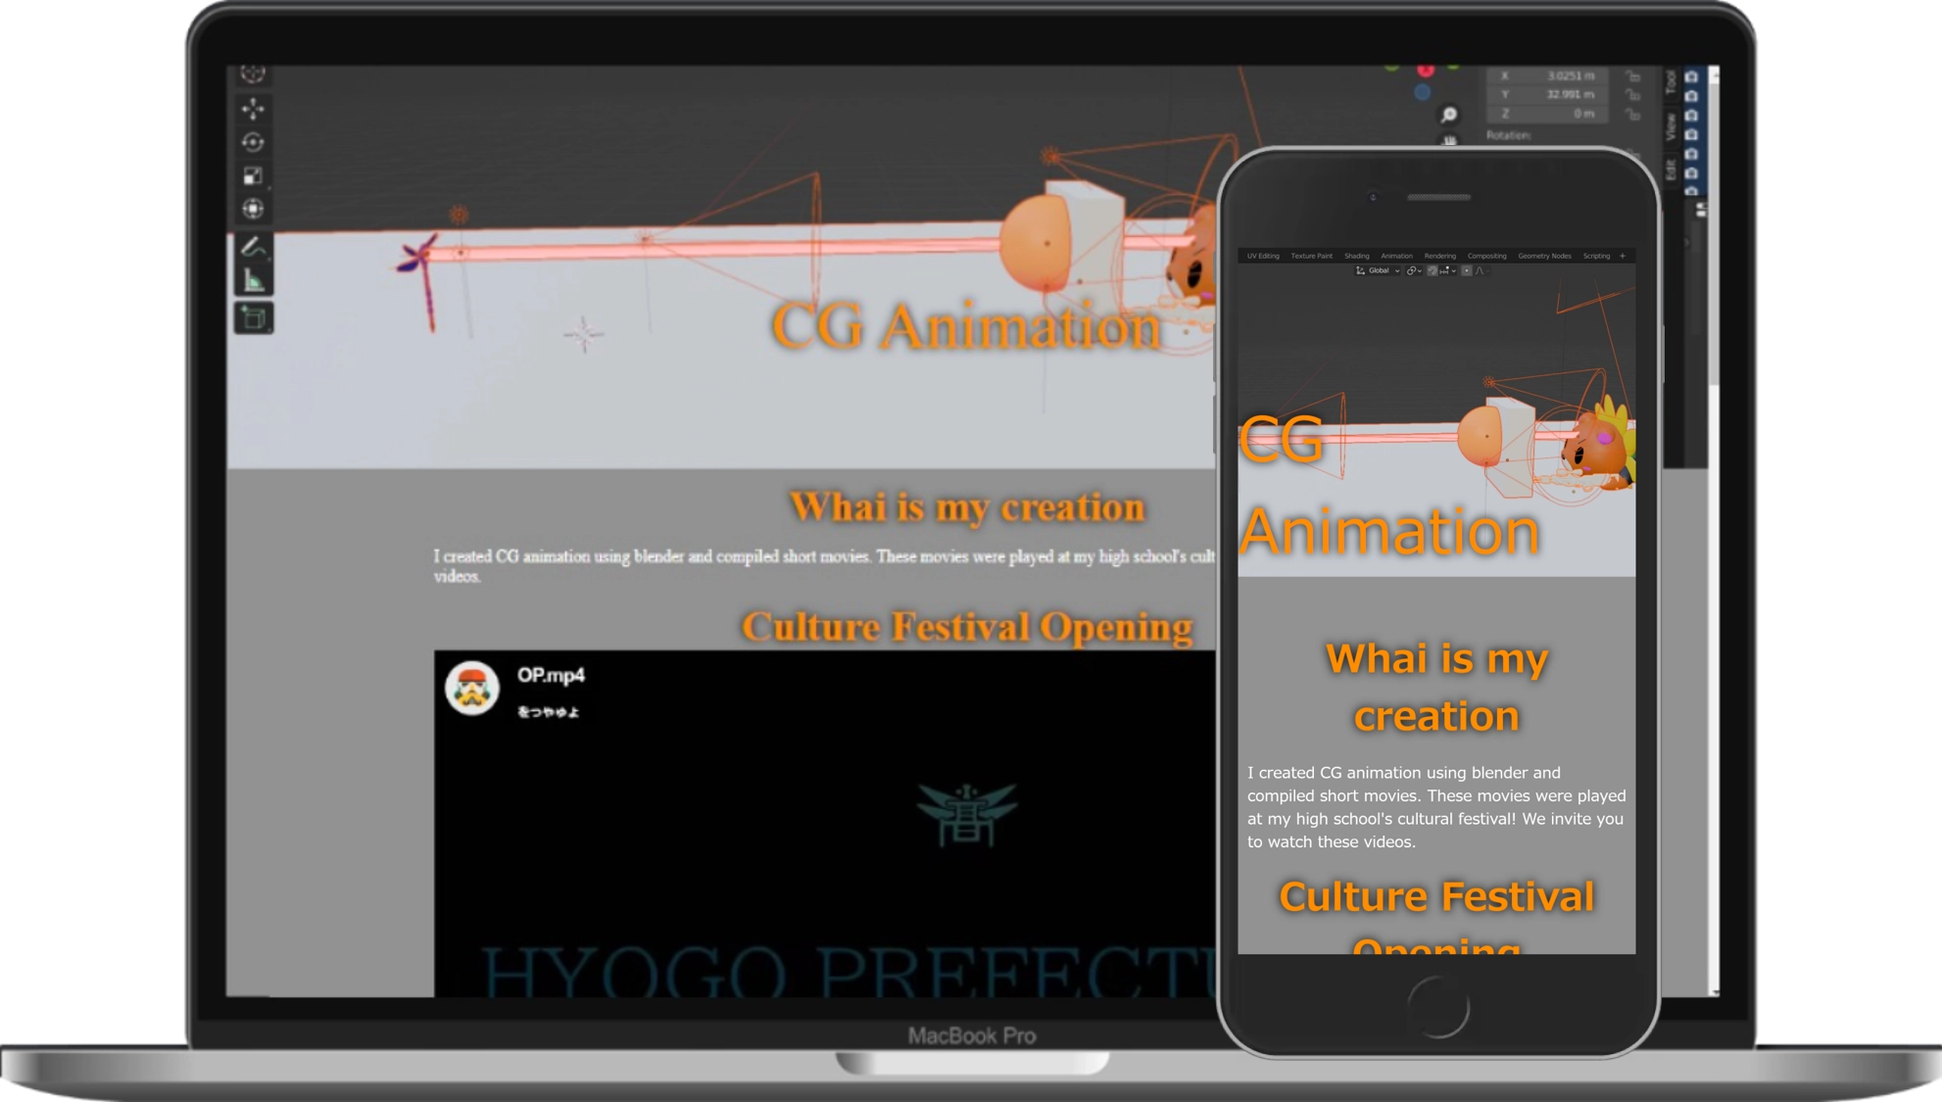
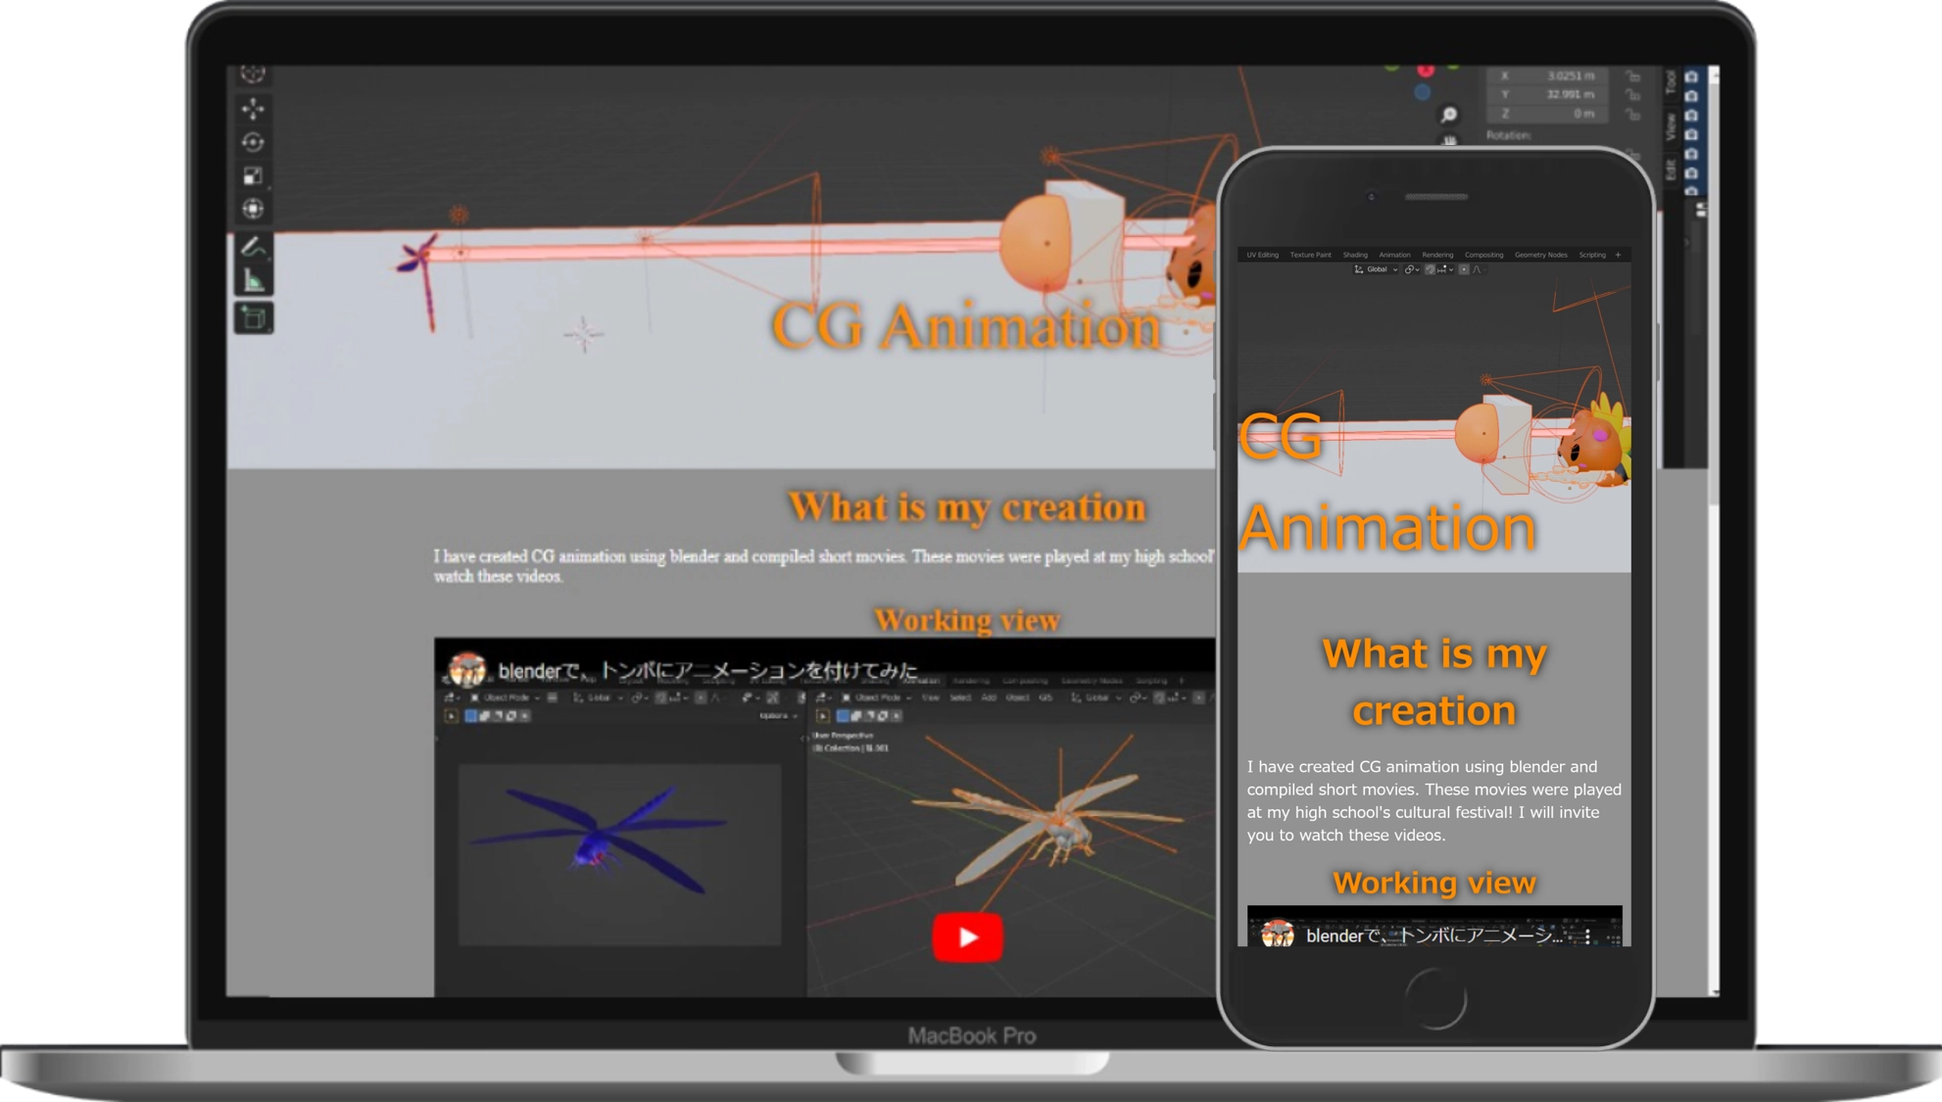
Hello

Changed region(s): [[0.2154, 0.1244, 0.8925, 0.9644], [0.4001, 0.4356, 0.5848, 0.4667], [0.6771, 0.2178, 0.7694, 0.2489]]

diff --git a/index.html b/index.html
@@ -154,14 +154,24 @@
     </div>
     </a>
   </div>
-  <div class="timeline-item" data-text="CG Animation">
-    <a href="https://myxogastria0808.github.io/CG-Animation/" target="_blank">
-    <div class="timeline__content"><img class="timeline__img" src="./CG-Animation.webp"/>
-      <h2 class="timeline__content-title">CG Animation</h2>
+  <div class="timeline-item" data-text="data.library">
+    <a href="https://myxogastria0808.github.io/About-data.library/" target="_blank">
+    <div class="timeline__content"><img class="timeline__img" src="./data_library.webp"/>
+      <h2 class="timeline__content-title">data.library</h2>
       <p class="timeline__content-desc">
-        I created CG animation using blender and compiled short movies. These movies were played at my high school's cultural festival! We invite you to watch these videos.
+          The R programming language originally provides several data sets. However, there is no package that categorizes the characteristics of these data sets. Therefore, I categorized datasets and created a package that can search datasets by category as a function of package.
       </p>
     </div>
+    </a>
+  </div>
+  <div class="timeline-item" data-text="CG Animation">
+    <a href="https://myxogastria0808.github.io/CG-Animation/" target="_blank">
+      <div class="timeline__content"><img class="timeline__img" src="./CG-Animation.webp"/>
+        <h2 class="timeline__content-title">CG Animation</h2>
+        <p class="timeline__content-desc">
+          I created CG animation using blender and compiled short movies. These movies were played at my high school's cultural festival! We invite you to watch these videos.
+        </p>
+      </div>
     </a>
   </div>
   <div class="timeline-item" data-text="Ono High School">
@@ -170,6 +180,16 @@
         <h2 class="timeline__content-title">Ono High School</h2>
         <p class="timeline__content-desc">
           I developed my high school's website with my friend! I created it with the primary goal of improving usability. It is in the process of being developed.
+        </p>
+      </div>
+    </a>
+  </div>
+  <div class="timeline-item" data-text="Web Update System">
+    <a href="https://myxogastria0808.github.io/AboutWebsiteUpdateSystem/" target="_blank">
+      <div class="timeline__content"><img class="timeline__img" src="./web.webp"/>
+        <h2 class="timeline__content-title">Web Update System</h2>
+        <p class="timeline__content-desc">
+          I have developed a system that allows you to easily update your website. This system works around a text editor called Atom developed by GitHub. The system was created with the assumption that it would be used with GitHub's website distribution service called GitHub Pages.
         </p>
       </div>
     </a>
@@ -187,52 +207,39 @@
   <div class="timeline-item" data-text="Code Hack">
     <a href="https://myxogastria0808.github.io/CodeHack/" target="_blank">
       <div class="timeline__content"><img class="timeline__img" src="./CodeHack.webp"/>
-        <h2 class="timeline__content-title">Code Hack</h2>
-        <p class="timeline__content-desc">
-          Code Hack is a term I coined in an attempt to programmatically express little ideas that make life a little more convenient. The following is a list of code hack ideas. Make full use of them! 
-        </p>
-      </div>
+          <h2 class="timeline__content-title">Code Hack</h2>
+          <p class="timeline__content-desc">
+              Code Hack is a term I coined in an attempt to programmatically express little ideas that make life a little more convenient. The following is a list of code hack ideas. Make full use of them! 
+          </p>
+        </div>
     </a>
   </div>
   <div class="timeline-item" data-text="The Quest for the 4D">
-    <a href="https://myxogastria0808.github.io/The-Quest-for-the-4-Dimensions/" target="_blank">
-      <div class="timeline__content"><img class="timeline__img" src="./4D.webp"/>
-        <h2 class="timeline__content-title">The Quest for the 4D</h2>
-        <p class="timeline__content-desc">
-          What do you imagine the existence of 4 dimensions world？ Living in 3 dimensions world makes it difficult to picture the world. In fact, we can image the world. 
-        </p>
-      </div>
-    </a>
+      <a href="https://myxogastria0808.github.io/The-Quest-for-the-4-Dimensions/" target="_blank">
+          <div class="timeline__content"><img class="timeline__img" src="./4D.webp"/>
+              <h2 class="timeline__content-title">The Quest for the 4D</h2>
+              <p class="timeline__content-desc">
+                  What do you imagine the existence of 4 dimensions world？ Living in 3 dimensions world makes it difficult to picture the world. In fact, we can image the world. 
+              </p>
+          </div>
+      </a>
   </div>
-
   <div class="timeline-item" data-text="Coming Soon...">
     <div class="timeline__content"><img class="timeline__img" src="./comingsoon.gif"/>
       <h2 class="timeline__content-title">Coming Soon...</h2>
-      <p class="timeline__content-desc"></p>
-    </div>
-  </div>
-  <!--<div class="timeline-item" data-text="FATHER OF THE TURKS">
-    <div class="timeline__content"><img class="timeline__img" src="https://turkcetarih.com/wp-content/uploads/2015/05/Atat%C3%BCrkveCumhuriyet.jpg"/>
-      <h2 class="timeline__content-title">1923</h2>
-      <p class="timeline__content-desc">In July 1923, the national government signed the Lausanne Treaty with Great Britain,France, Greece, Italy, and others. In mid-October, Ankara became the capital of the new Turkish State. On October 29, the Republic was proclaimed and Mustafa Kemal Pasha wasunanimously elected President of the Republic.</p>
-    </div>
-  </div>
-  <div class="timeline-item" data-text="FATHER OF THE TURKS">
-    <div class="timeline__content"><img class="timeline__img" src="https://pbs.twimg.com/media/Cw69H8pXUAEaSqa.jpg"/>
-      <h2 class="timeline__content-title">1934</h2>
       <p class="timeline__content-desc">
         The account of Atatürk's fifteen year Presidency is a saga of dramatic modernization.With indefatigable determination, he created a new political and legal system, abolished the Caliphate and made both government and education secular, gave equal rights to women,changed the alphabet and the attire, and advanced the arts and the sciences, agricultureand industry.
         In 1934, when the surname law was adopted, the national parliament gave him the name <i><strong>"Atatürk" (Father of the Turks)</strong></i>
       </p>
     </div>
   </div>
-  <div class="timeline-item" data-text="FATHER OF THE TURKS">
+  <!--<div class="timeline-item" data-text="FATHER OF THE TURKS">
     <div class="timeline__content"><img class="timeline__img" src="http://www.bik.gov.tr/wp-content/uploads/2016/11/20161110_2_20037273_15856882.jpg?fit=1024%2C863"/>
       <h2 class="timeline__content-title">1938</h2>
       <p class="timeline__content-desc">On November 10, 1938, following an illness of a few months, the national liberator and the Father of modern Turkey died. But his legacy to his people and to the world endures.</p>
     </div>
   </div> -->
-</div>
+  </div>
 </div>
 
 <div class="demo-footer">

diff --git a/編集.html b/編集.html
@@ -1,0 +1,115 @@
+<div class="timeline-item" data-text="BSSO">
+    <a href="https://myxogastria0808.github.io/BSSO/" target="_blank">
+    <div class="timeline__content"><img class="timeline__img" src="./BSSO.webp"/>
+      <h2 class="timeline__content-title">BSSO</h2>
+      <p class="timeline__content-desc">We created this system to provide a fluid simulation experience for the general public. This system is my completely original system.</p>
+    </div>
+    </a>
+  </div>
+  <div class="timeline-item" data-text="PCA">
+    <a href="https://myxogastria0808.github.io/AboutPCA/" target="_blank">
+    <div class="timeline__content"><img class="timeline__img" src="./PCA.webp"/>
+      <h2 class="timeline__content-title">PCA</h2>
+      <p class="timeline__content-desc">
+        I developed a framework of PCA (R programming language). 
+        One of the most wonderful factors of it is the function to compress multidimensional vectors into three dimensions easily. 
+      </p>
+    </div>
+    </a>
+  </div>
+  <!--Rの教科書をネクパブに上げたのち、スクショをして画像を載せる(.webp)。そして、リンクも埋める-->
+<div class="timeline-item" data-text="Beginner's book of R">
+  <a href="https://myxogastria0808.github.io/R-book/" target="_blank">
+  <div class="timeline__content"><img class="timeline__img" src="./R-book.webp"/>
+    <h2 class="timeline__content-title">Beginner's book of R</h2>
+    <p class="timeline__content-desc">
+      I wrote a beginner's book of R programming language and taught my classmate about R and programming using this. Then, I published it by NextPublishing Authors Press which is one of Amazon's service.
+    </p>
+  </div>
+  </a>
+</div>
+<div class="timeline-item" data-text="data.library">
+  <a href="https://myxogastria0808.github.io/About-data.library/" target="_blank">
+  <div class="timeline__content"><img class="timeline__img" src="./data_library.webp"/>
+    <h2 class="timeline__content-title">data.library</h2>
+    <p class="timeline__content-desc">
+        The R programming language originally provides several data sets. However, there is no package that categorizes the characteristics of these data sets. Therefore, I categorized datasets and created a package that can search datasets by category as a function of package.
+    </p>
+  </div>
+  </a>
+</div>
+<div class="timeline-item" data-text="CG Animation">
+  <a href="https://myxogastria0808.github.io/CG-Animation/" target="_blank">
+    <div class="timeline__content"><img class="timeline__img" src="./CG-Animation.webp"/>
+      <h2 class="timeline__content-title">CG Animation</h2>
+      <p class="timeline__content-desc">
+        I created CG animation using blender and compiled short movies. These movies were played at my high school's cultural festival! We invite you to watch these videos.
+      </p>
+    </div>
+  </a>
+</div>
+<div class="timeline-item" data-text="Ono High School">
+  <a href="https://myxogastria0808.github.io/OHS/" target="_blank">
+    <div class="timeline__content"><img class="timeline__img" src="./小野高校.webp"/>
+      <h2 class="timeline__content-title">Ono High School</h2>
+      <p class="timeline__content-desc">
+        I developed my high school's website with my friend! I created it with the primary goal of improving usability. It is in the process of being developed.
+      </p>
+    </div>
+  </a>
+</div>
+<div class="timeline-item" data-text="Web Update System">
+  <a href="https://myxogastria0808.github.io/AboutWebsiteUpdateSystem/" target="_blank">
+    <div class="timeline__content"><img class="timeline__img" src="./web.webp"/>
+      <h2 class="timeline__content-title">Web Update System</h2>
+      <p class="timeline__content-desc">
+        I have developed a system that allows you to easily update your website. This system works around a text editor called Atom developed by GitHub. The system was created with the assumption that it would be used with GitHub's website distribution service called GitHub Pages.
+      </p>
+    </div>
+  </a>
+</div>
+<div class="timeline-item" data-text="QGIS">
+  <a href="https://myxogastria0808.github.io/QGIS/" target="_blank">
+    <div class="timeline__content"><img class="timeline__img" src="./QGIS.webp"/>
+      <h2 class="timeline__content-title">QGIS</h2>
+      <p class="timeline__content-desc">
+        I developed a GIS map of the flood damage of July, 2008. I use QGIS and QGIS2Web. QGIS is one of the FOSS4G stands for Free Open-Source Software for GeoSpatial. QGIS2Web is a plug-in of QGIS to release the Internet. 
+      </p>
+    </div>
+  </a>
+</div>
+<div class="timeline-item" data-text="Code Hack">
+  <a href="https://myxogastria0808.github.io/CodeHack/" target="_blank">
+    <div class="timeline__content"><img class="timeline__img" src="./CodeHack.webp"/>
+        <h2 class="timeline__content-title">Code Hack</h2>
+        <p class="timeline__content-desc">
+            Code Hack is a term I coined in an attempt to programmatically express little ideas that make life a little more convenient. The following is a list of code hack ideas. Make full use of them! 
+        </p>
+      </div>
+  </a>
+</div>
+<div class="timeline-item" data-text="The Quest for the 4D">
+    <a href="https://myxogastria0808.github.io/The-Quest-for-the-4-Dimensions/" target="_blank">
+        <div class="timeline__content"><img class="timeline__img" src="./4D.webp"/>
+            <h2 class="timeline__content-title">The Quest for the 4D</h2>
+            <p class="timeline__content-desc">
+                What do you imagine the existence of 4 dimensions world？ Living in 3 dimensions world makes it difficult to picture the world. In fact, we can image the world. 
+            </p>
+        </div>
+    </a>
+</div>
+<div class="timeline-item" data-text="Coming Soon...">
+  <div class="timeline__content"><img class="timeline__img" src="./comingsoon.gif"/>
+    <h2 class="timeline__content-title">Coming Soon...</h2>
+    <p class="timeline__content-desc">
+      The account of Atatürk's fifteen year Presidency is a saga of dramatic modernization.With indefatigable determination, he created a new political and legal system, abolished the Caliphate and made both government and education secular, gave equal rights to women,changed the alphabet and the attire, and advanced the arts and the sciences, agricultureand industry.
+      In 1934, when the surname law was adopted, the national parliament gave him the name <i><strong>"Atatürk" (Father of the Turks)</strong></i>
+    </p>
+  </div>
+</div>
+<!--<div class="timeline-item" data-text="FATHER OF THE TURKS">
+  <div class="timeline__content"><img class="timeline__img" src="http://www.bik.gov.tr/wp-content/uploads/2016/11/20161110_2_20037273_15856882.jpg?fit=1024%2C863"/>
+    <h2 class="timeline__content-title">1938</h2>
+    <p class="timeline__content-desc">On November 10, 1938, following an illness of a few months, the national liberator and the Father of modern Turkey died. But his legacy to his people and to the world endures.</p>
+  </div>
+</div> -->

diff --git a/現本.html b/現本.html
@@ -1,0 +1,108 @@
+<div class="timeline-item" data-text="BSSO">
+    <a href="https://myxogastria0808.github.io/BSSO/" target="_blank">
+    <div class="timeline__content"><img class="timeline__img" src="./BSSO.webp"/>
+      <h2 class="timeline__content-title">BSSO</h2>
+      <p class="timeline__content-desc">We created this system to provide a fluid simulation experience for the general public. This system is my completely original system.</p>
+    </div>
+    </a>
+  </div>
+  <div class="timeline-item" data-text="PCA">
+    <a href="https://myxogastria0808.github.io/AboutPCA/" target="_blank">
+    <div class="timeline__content"><img class="timeline__img" src="./PCA.webp"/>
+      <h2 class="timeline__content-title">PCA</h2>
+      <p class="timeline__content-desc">
+        I developed a framework of PCA (R programming language). 
+        One of the most wonderful factors of it is the function to compress multidimensional vectors into three dimensions easily. 
+      </p>
+    </div>
+    </a>
+  </div>
+  <!--Rの教科書をネクパブに上げたのち、スクショをして画像を載せる(.webp)。そして、リンクも埋める-->
+<div class="timeline-item" data-text="Beginner's book of R">
+  <a href="https://myxogastria0808.github.io/R-book/" target="_blank">
+  <div class="timeline__content"><img class="timeline__img" src="./R-book.webp"/>
+    <h2 class="timeline__content-title">Beginner's book of R</h2>
+    <p class="timeline__content-desc">
+      I wrote a beginner's book of R programming language and taught my classmate about R and programming using this. Then, I published it by NextPublishing Authors Press which is one of Amazon's service.
+    </p>
+  </div>
+  </a>
+</div>
+<div class="timeline-item" data-text="CG Animation">
+  <a href="https://myxogastria0808.github.io/CG-Animation/" target="_blank">
+  <div class="timeline__content"><img class="timeline__img" src="./CG-Animation.webp"/>
+    <h2 class="timeline__content-title">CG Animation</h2>
+    <p class="timeline__content-desc">
+      I created CG animation using blender and compiled short movies. These movies were played at my high school's cultural festival! We invite you to watch these videos.
+    </p>
+  </div>
+  </a>
+</div>
+<div class="timeline-item" data-text="Ono High School">
+  <a href="https://myxogastria0808.github.io/OHS/" target="_blank">
+    <div class="timeline__content"><img class="timeline__img" src="./小野高校.webp"/>
+      <h2 class="timeline__content-title">Ono High School</h2>
+      <p class="timeline__content-desc">
+        I developed my high school's website with my friend! I created it with the primary goal of improving usability. It is in the process of being developed.
+      </p>
+    </div>
+  </a>
+</div>
+<div class="timeline-item" data-text="QGIS">
+  <a href="https://myxogastria0808.github.io/QGIS/" target="_blank">
+    <div class="timeline__content"><img class="timeline__img" src="./QGIS.webp"/>
+      <h2 class="timeline__content-title">QGIS</h2>
+      <p class="timeline__content-desc">
+        I developed a GIS map of the flood damage of July, 2008. I use QGIS and QGIS2Web. QGIS is one of the FOSS4G stands for Free Open-Source Software for GeoSpatial. QGIS2Web is a plug-in of QGIS to release the Internet. 
+      </p>
+    </div>
+  </a>
+</div>
+<div class="timeline-item" data-text="Code Hack">
+  <a href="https://myxogastria0808.github.io/CodeHack/" target="_blank">
+    <div class="timeline__content"><img class="timeline__img" src="./CodeHack.webp"/>
+      <h2 class="timeline__content-title">Code Hack</h2>
+      <p class="timeline__content-desc">
+        Code Hack is a term I coined in an attempt to programmatically express little ideas that make life a little more convenient. The following is a list of code hack ideas. Make full use of them! 
+      </p>
+    </div>
+  </a>
+</div>
+<div class="timeline-item" data-text="The Quest for the 4D">
+  <a href="https://myxogastria0808.github.io/The-Quest-for-the-4-Dimensions/" target="_blank">
+    <div class="timeline__content"><img class="timeline__img" src="./4D.webp"/>
+      <h2 class="timeline__content-title">The Quest for the 4D</h2>
+      <p class="timeline__content-desc">
+        What do you imagine the existence of 4 dimensions world？ Living in 3 dimensions world makes it difficult to picture the world. In fact, we can image the world. 
+      </p>
+    </div>
+  </a>
+</div>
+
+<div class="timeline-item" data-text="Coming Soon...">
+  <div class="timeline__content"><img class="timeline__img" src="./comingsoon.gif"/>
+    <h2 class="timeline__content-title">Coming Soon...</h2>
+    <p class="timeline__content-desc"></p>
+  </div>
+</div>
+<!--<div class="timeline-item" data-text="FATHER OF THE TURKS">
+  <div class="timeline__content"><img class="timeline__img" src="https://turkcetarih.com/wp-content/uploads/2015/05/Atat%C3%BCrkveCumhuriyet.jpg"/>
+    <h2 class="timeline__content-title">1923</h2>
+    <p class="timeline__content-desc">In July 1923, the national government signed the Lausanne Treaty with Great Britain,France, Greece, Italy, and others. In mid-October, Ankara became the capital of the new Turkish State. On October 29, the Republic was proclaimed and Mustafa Kemal Pasha wasunanimously elected President of the Republic.</p>
+  </div>
+</div>
+<div class="timeline-item" data-text="FATHER OF THE TURKS">
+  <div class="timeline__content"><img class="timeline__img" src="https://pbs.twimg.com/media/Cw69H8pXUAEaSqa.jpg"/>
+    <h2 class="timeline__content-title">1934</h2>
+    <p class="timeline__content-desc">
+      The account of Atatürk's fifteen year Presidency is a saga of dramatic modernization.With indefatigable determination, he created a new political and legal system, abolished the Caliphate and made both government and education secular, gave equal rights to women,changed the alphabet and the attire, and advanced the arts and the sciences, agricultureand industry.
+      In 1934, when the surname law was adopted, the national parliament gave him the name <i><strong>"Atatürk" (Father of the Turks)</strong></i>
+    </p>
+  </div>
+</div>
+<div class="timeline-item" data-text="FATHER OF THE TURKS">
+  <div class="timeline__content"><img class="timeline__img" src="http://www.bik.gov.tr/wp-content/uploads/2016/11/20161110_2_20037273_15856882.jpg?fit=1024%2C863"/>
+    <h2 class="timeline__content-title">1938</h2>
+    <p class="timeline__content-desc">On November 10, 1938, following an illness of a few months, the national liberator and the Father of modern Turkey died. But his legacy to his people and to the world endures.</p>
+  </div>
+</div> -->
